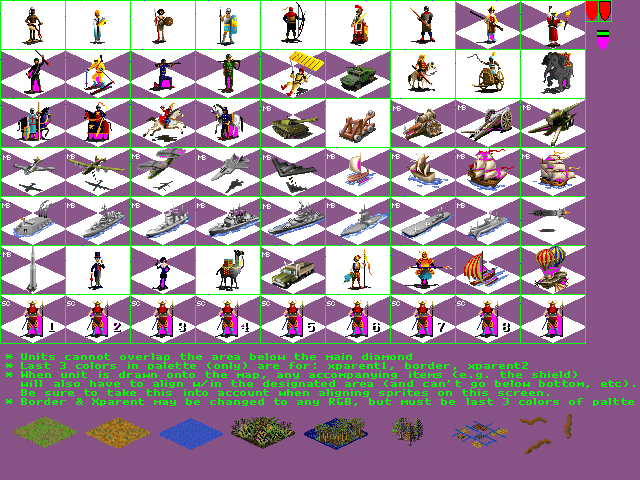
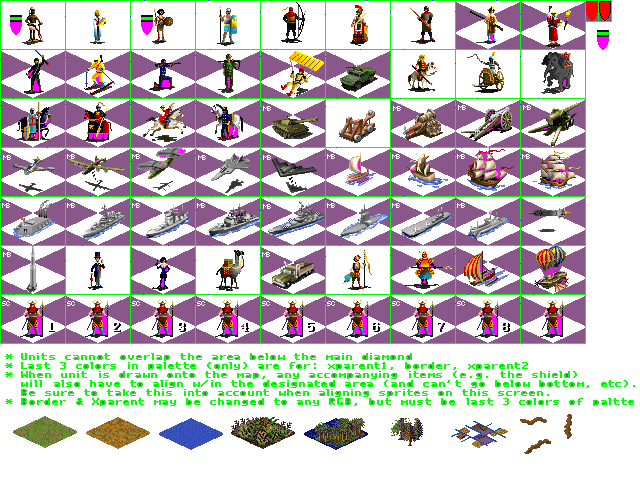
began adding unit poperties including orders that are interpreted by Game object

Changed region(s): [[0.0, 0.0, 1.0, 1.0], [0.2188, 0.0312, 0.25, 0.0625], [0.0, 0.0312, 0.0312, 0.0625]]

diff --git a/public/listeners.js b/public/listeners.js
@@ -18,6 +18,7 @@ function registerEventListeners() {
 
     document.addEventListener("keydown", (event) => {
         console.log(event)
+        console.log(clientGame)
         if (canvas.selectedUnit) {
             let unit = canvas.selectedUnit
             let x = unit.coordinates.x
@@ -48,12 +49,13 @@ function registerEventListeners() {
                     moveUnitToTile({unit: unit, x: targetX, y: targetY}) // check if valid move, emit move to server, update canvas
                     break
                 case "KeyB":
-                    if (canvas.selectedUnit.unitType === "settler") {
-                        socket.emit('unitOrders', {unit: canvas.selectedUnit, orders: "buildNewCity"})
+                    socket.emit('unitOrders', {unit: canvas.selectedUnit, orders: canvas.selectedUnit.orders[event.code]})
+                    //if (canvas.selectedUnit.unitType === "settler") {
+                    //    socket.emit('unitOrders', {unit: canvas.selectedUnit, orders: "buildNewCity"})
                         canvas.deselectUnit()
                         canvas.sounds.buildCity.play()
                         return
-                    }
+                    //}
                 case "Tab":
                     event.preventDefault()
                     return

diff --git a/Unit.js b/Unit.js
@@ -5,6 +5,33 @@ class Unit {
         this.coordinates = coordinates
         this.selectable = true
         this.unitType = unitType
+        this.cost = 10
+        this.attack = 1
+        this.defence = 1
+        this.health = 1
+        this.firepower = 1
+        this.move = 1
+        this.orders = {
+
+        }
+        this.modifyAttributesBasedOnUnitType()
+}
+
+modifyAttributesBasedOnUnitType() {
+    switch(this.unitType) {
+        case 'settler':
+            this.cost = 40
+            this.attack = 0
+            this.defence = 1
+            this.health = 2
+            this.firepower = 1
+            this.move = 1
+            this.orders = {
+                'KeyB': 'buildNewCity'
+            }
+        case 'warrior':
+            return
+    }
 }
 
 static UNIT_TYPES = {

diff --git a/public/models/Canvas.js b/public/models/Canvas.js
@@ -879,6 +879,7 @@ class Canvas {
                 this.sprites.units[unit] = {x: 2+i*65, y: 2+j*49, w: 62, h: 46}
             })
         })
+        this.sprites.units['shield'] = {x: 597, y: 30, w: 12, h: 20}
     }
 
     initializeTerrainSprites() {
